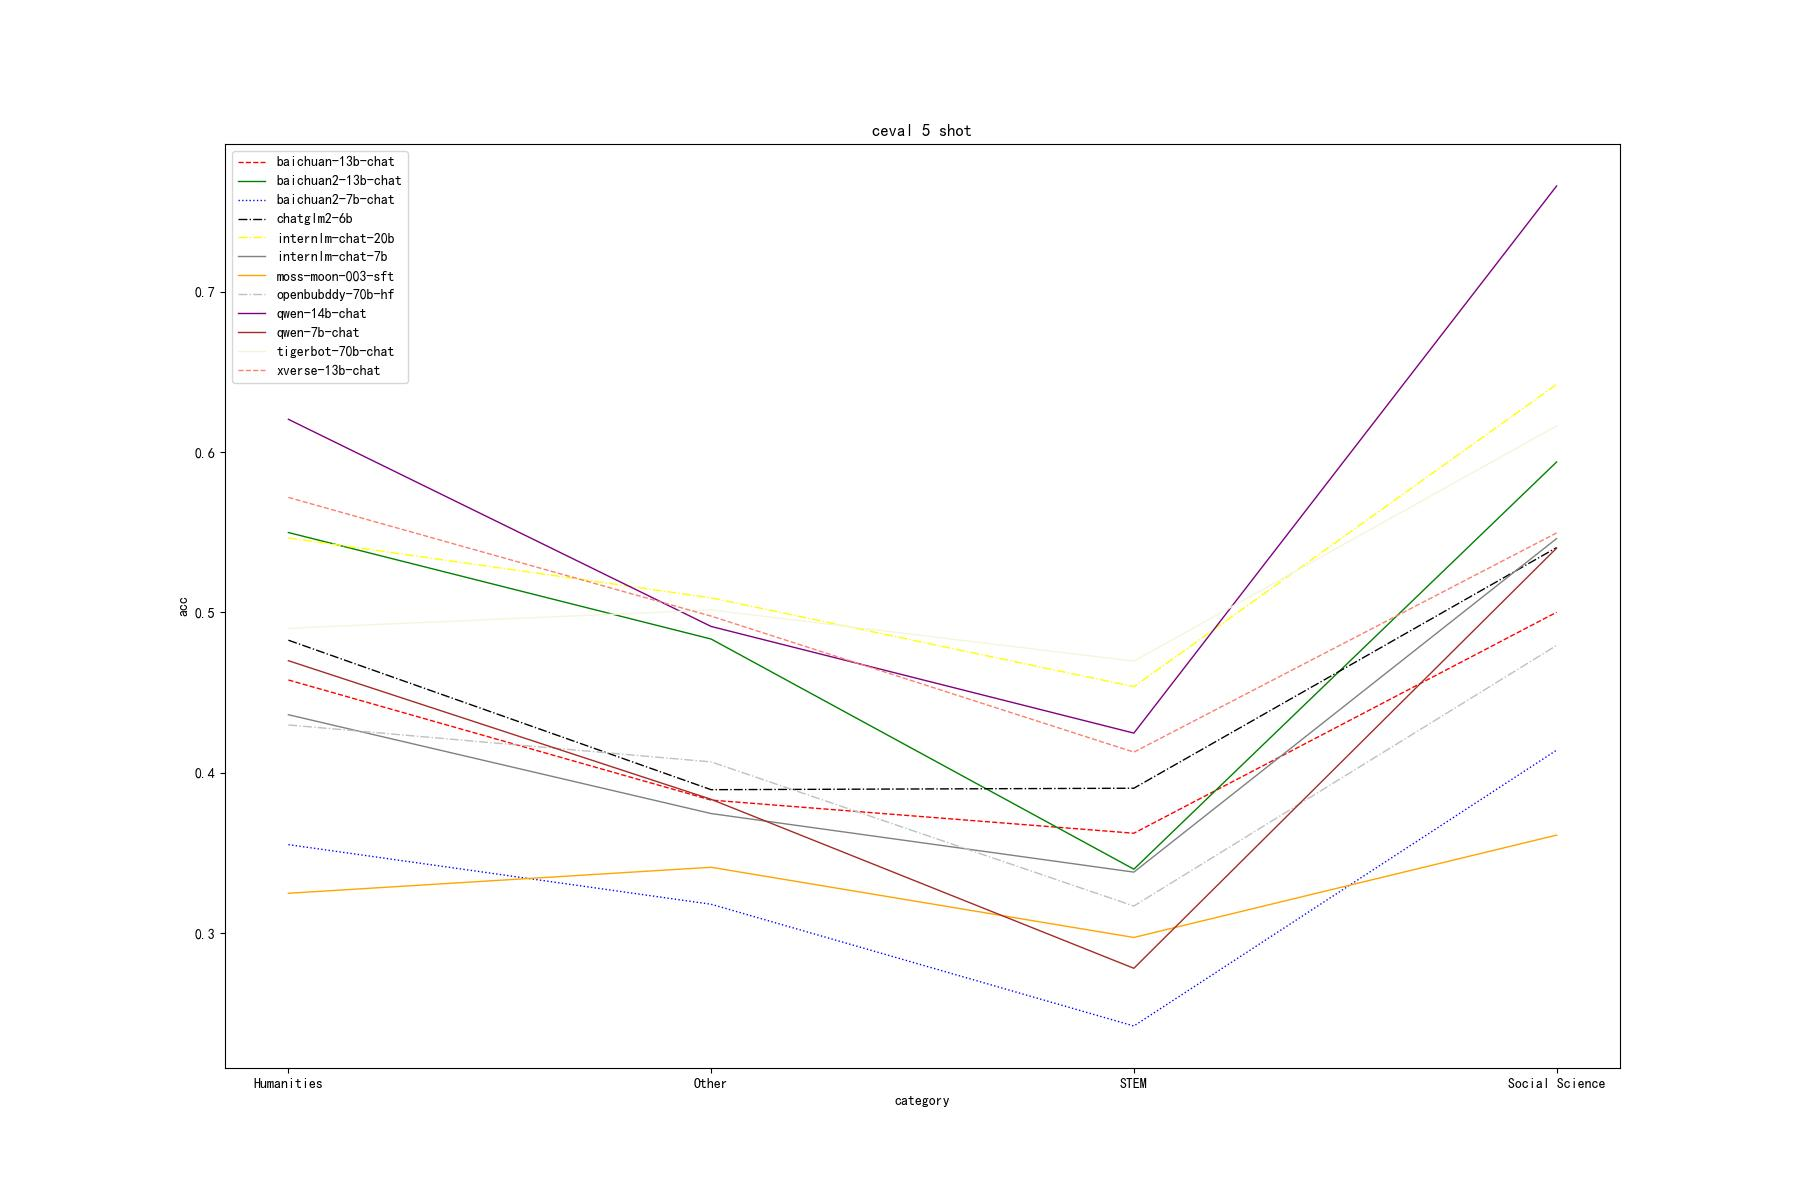
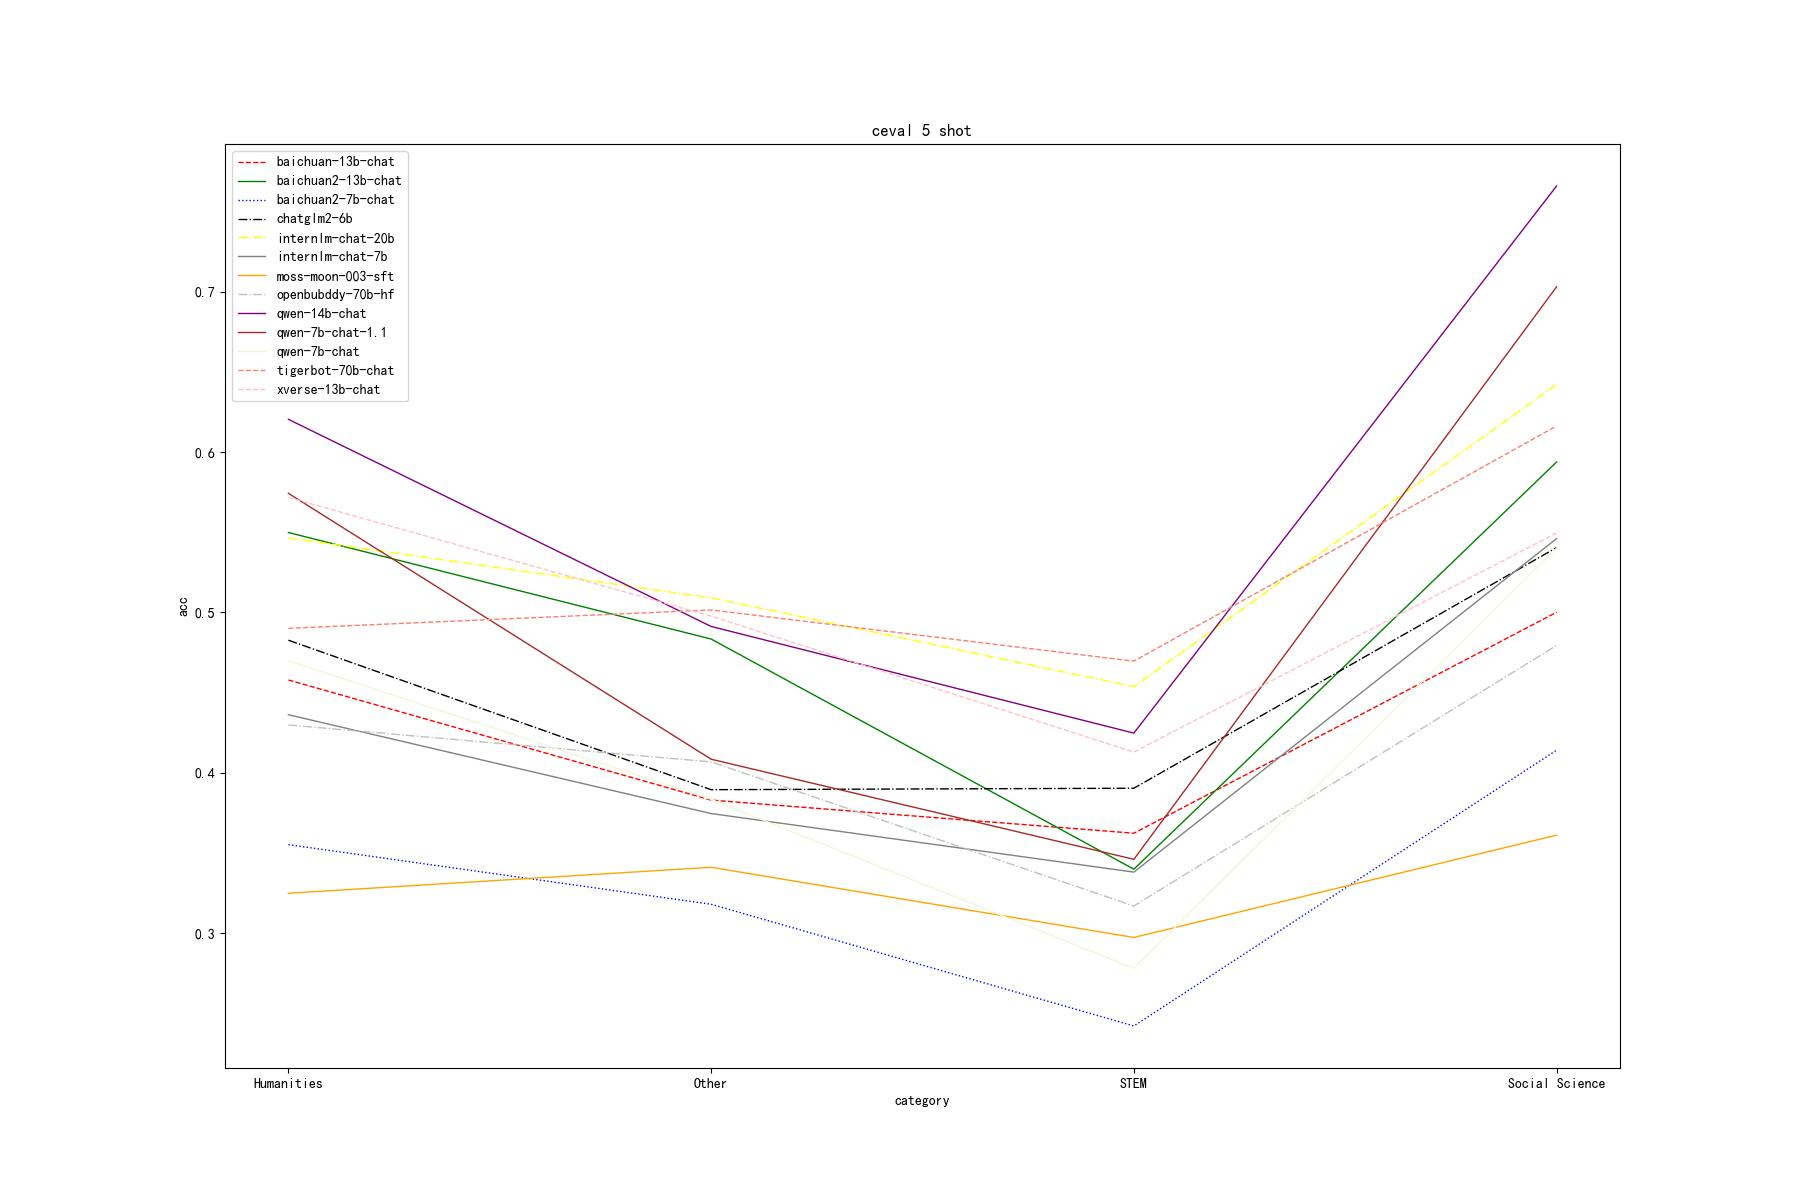
qwen

Changed region(s): [[0.1556, 0.2775, 0.2178, 0.3392], [0.2489, 0.4933, 0.28, 0.5242]]

diff --git a/auto_eval/model_result/draw_ceval.py b/auto_eval/model_result/draw_ceval.py
@@ -38,7 +38,7 @@ colors = [
     'r','g','b','black','yellow','grey', 'orange','silver','purple','brown','beige','salmon','pink','pulm'
 ]
 styles = [
-    'dashed','solid','dotted','dashdot','dashdot','solid','solid','dashdot','solid','solid','solid','dashed',
+    'dashed','solid','dotted','dashdot','dashdot','solid','solid','dashdot','solid','solid','solid','dashed','dashed',
 ]
 idx = -1
 for k,v in data_map.items():
